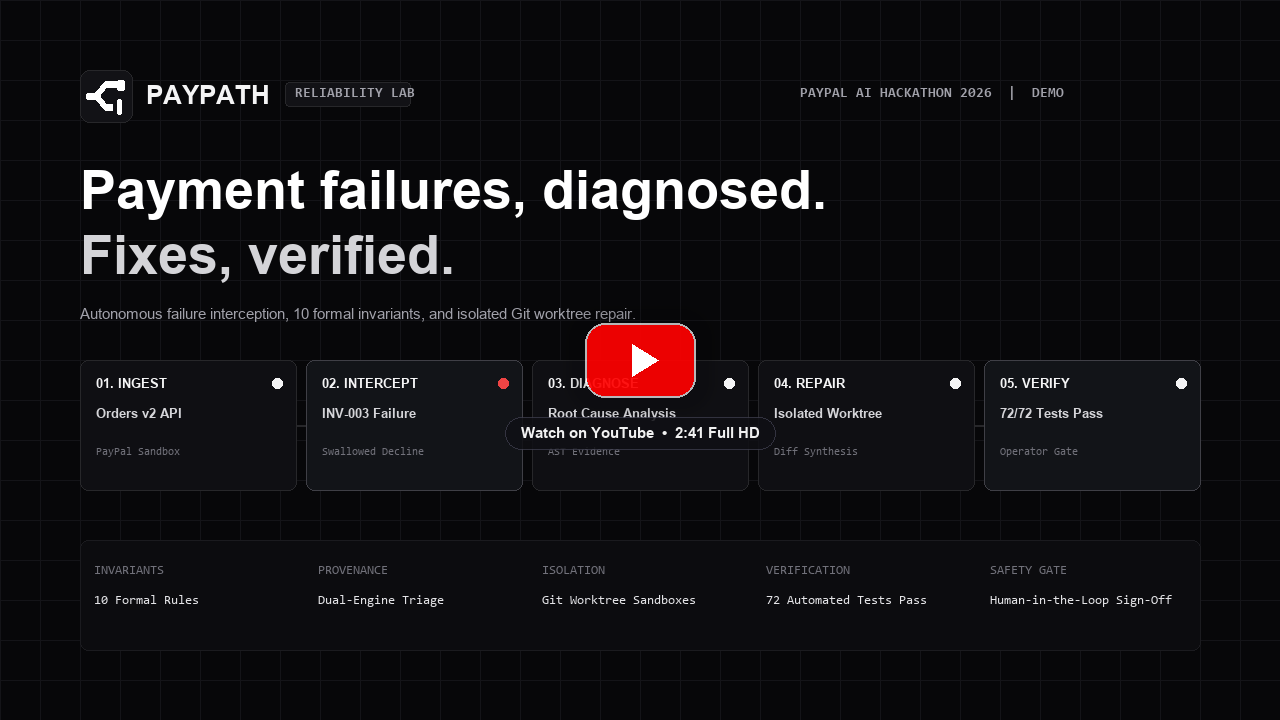
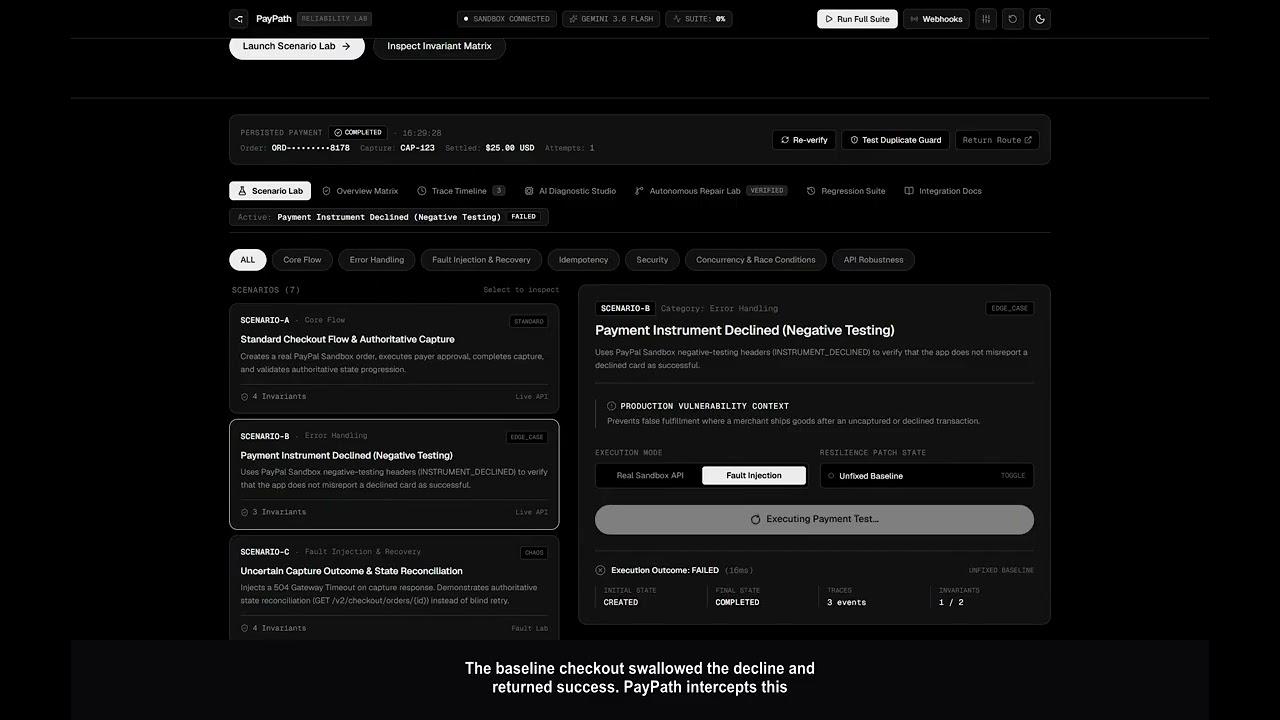
docs: polish README with authentic YouTube preview, 1080p PNG screenshots, and enriched metadata

diff --git a/README.md b/README.md
@@ -5,10 +5,12 @@
 [![TypeScript 5](https://img.shields.io/badge/TypeScript-5-000000?style=flat-square&logo=typescript&logoColor=white)](https://www.typescriptlang.org/)
 [![Tailwind CSS 4](https://img.shields.io/badge/Tailwind_CSS-4-000000?style=flat-square&logo=tailwindcss&logoColor=white)](https://tailwindcss.com/)
 [![PayPal Orders v2 Sandbox](https://img.shields.io/badge/PayPal-Orders_v2_Sandbox-000000?style=flat-square&logo=paypal&logoColor=white)](https://developer.paypal.com/docs/api/orders/v2/)
+[![Payment Invariants](https://img.shields.io/badge/Invariants-10_Deterministic_Rules-000000?style=flat-square&logo=shield&logoColor=white)](#key-features)
+[![Autonomous Repair](https://img.shields.io/badge/Repair_Agent-Isolated_Worktrees-000000?style=flat-square&logo=git&logoColor=white)](#key-features)
 [![Vitest 5](https://img.shields.io/badge/Vitest-5-000000?style=flat-square&logo=vitest&logoColor=white)](https://vitest.dev/)
 [![MIT License](https://img.shields.io/badge/License-MIT-000000?style=flat-square)](LICENSE)
 
-PayPath is an open-source developer testing harness for PayPal Orders v2 Sandbox integrations. It helps developers test checkout failure scenarios, payment idempotency, duplicate-capture protection, webhook simulation, and payment-state reconciliation.
+PayPath is an open-source payment reliability harness and autonomous repair agent for PayPal Orders v2 integrations. It intercepts checkout failure scenarios, validates monotonic payment safety invariants, diagnoses root causes, and synthesizes verified AST code patches inside isolated Git worktrees.
 
 ---
 
@@ -67,29 +69,13 @@ The following screenshots are captured directly from the running PayPath applica
 ![PayPath Webhook Simulator — Idempotency and Duplicate Capture Event Deduplication](docs/screenshots/06-webhook-simulator.png)
 *Interactive webhook simulator dispatching duplicate `PAYMENT.CAPTURE.COMPLETED` events, validating that the handler recognizes identical event identifiers and returns an acknowledged skipped action.*
 
-### 7. Interactive Execution Flow Graph
-![PayPath Execution Flow Graph — Real-time Payment Lifecycle and Failure Interception](docs/screenshots/04-execution-flow-graph.jpg)
-*Visual state machine depicting the payment lifecycle stages (Order Creation, Authorization, Capture Attempt, Invariant Triage, and Settlement). Nodes highlight intercepted failure points and trace reconciliation transitions in real time.*
+### 7. Autonomous Repair Lab and Isolated Worktree Diff
+![PayPath Repair Lab — Candidate Unified Diff and Operator Promotion Boundary](docs/screenshots/07-autonomous-repair-diff.png)
+*Autonomous Repair Lab displaying the synthesized candidate patch for `src/services/paypal-checkout.ts` inside an isolated Git worktree sandbox, complete with allowlist validation, regression test verification, and the operator review sign-off boundary.*
 
-### 8. Autonomous Repair Lab and Isolated Patch Workspace
-![PayPath Repair Lab — Ephemeral Worktree Isolation and Diff Synthesis](docs/screenshots/05-repair-lab.jpg)
-*Autonomous Repair Lab synthesizing an AST-validated patch in an isolated ephemeral Git worktree, preventing untested code mutations from affecting the running checkout runtime.*
-
-### 9. Synthesized Code Diff and Automated Verification
-![PayPath Repair Lab Diff — Proposed Resilience Patch and Test Evidence](docs/screenshots/05-repair-lab-diff.jpg)
-*Side-by-side unified code diff inspection view with inline test evidence, comparing baseline failure traces against the isolated worktree patch verification.*
-
-### 10. Operator Review Gate and Human-in-the-Loop Sign-Off
-![PayPath Operator Review Gate — Manual Approval and Deployment Safety](docs/screenshots/06-operator-review-gate.jpg)
-*Human-in-the-loop governance modal allowing an engineering lead or payment operator to inspect synthesized diffs, review invariant test results, and approve or reject deployment.*
-
-### 11. Sanitized Incident Evidence and Telemetry Export
-![PayPath Incident Exporter — Sanitized Telemetry Bundle and Audit Log](docs/screenshots/11-sanitized-incident-evidence.jpg)
-*Full diagnostic telemetry bundle export scrubbed of credentials, OAuth tokens, and PII, providing an auditable incident postmortem for dispute resolution and compliance.*
-
-### 12. Cross-Device Responsive Layout
-![PayPath Mobile and Tablet Layout — High-Density Responsive Workbench](docs/screenshots/07-mobile-responsive.jpg)
-*High-density responsive design tested across desktop, tablet, and mobile viewport sizes, ensuring critical payment telemetry remains fully accessible in on-call triage environments.*
+### 8. Sanitized Incident Timeline and Telemetry Export
+![PayPath Incident Exporter — Chronological Audit Log and Redacted Telemetry Trace](docs/screenshots/08-incident-evidence.png)
+*Sanitized execution trace timeline detailing intercepted HTTP requests, negative-testing simulation headers, and state transitions with sensitive OAuth tokens, card details, and credentials recursively redacted for audit compliance.*
 
 ---
 
